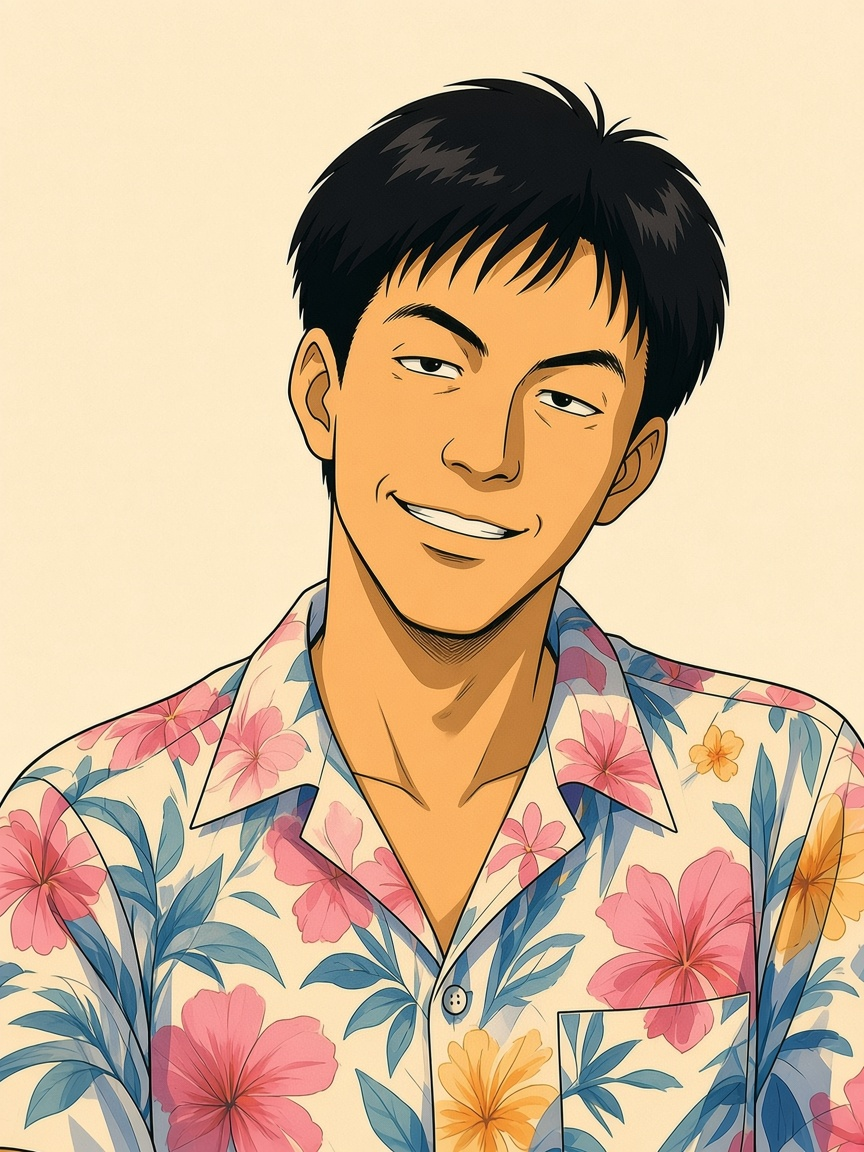
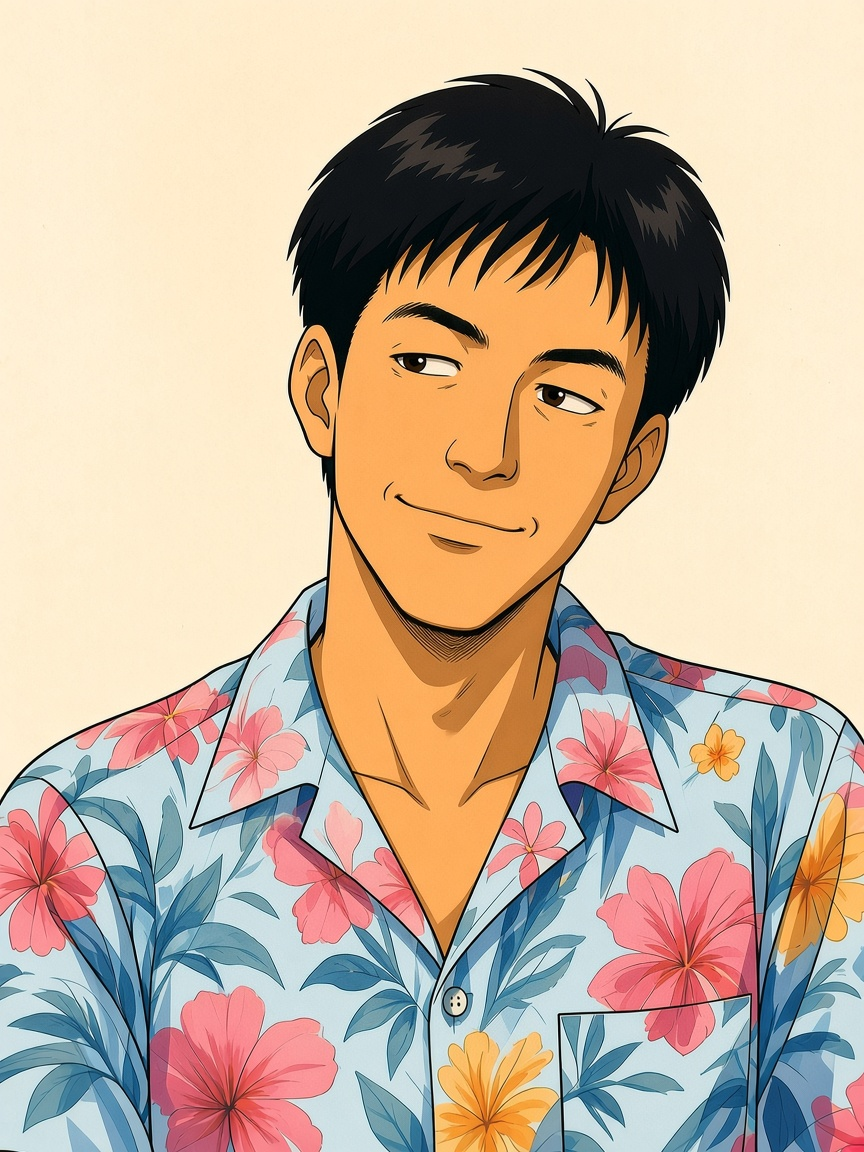
Soft: yip／liu smile↔default + liu frown Soft nit (#30)
Soft tip only. Soft≠PASS. SAVE/?v= still 19w. 唔 tip LIVE. yip def/smile + liu def/smile/frown Soft nits; yip frown lock.

diff --git a/assets/story/era_stars/MANIFEST.md b/assets/story/era_stars/MANIFEST.md
@@ -4,15 +4,15 @@
 > **Brief：** `content/ART_BRIEF_MVP_ERA_STARS_v1.md`  
 > **LOOKS：** `content/PLAN_CHAR_LOOKS_REF_v1.md` §C  
 > **Pipeline：** cursor **GenerateImage**（refs `hero_awi.jpg`＋`char_hero_bust_default.png`）→ Pillow cover-crop **864×1152** PNG  
-> **狀態：** **Soft tip 2026-11-05** — **luk leather v5b**＋**liu chow-vibe v10**＋**yip starlet-v3**＋**so jade-v4**＋**ngai kara-v5**（各 bust×3）。5 人 ×3 表情＝15 live bust。ngai kara-v2 已由 kara-v5 取代，唔再係 live。**Soft nits expr** 已換 so smile／luk smile／ngai×3（bak `bak_pre_soft_nits_expr_20261105/` 唔入本 PR）。**so energy Soft nit** 已換 default＋smile（frown 未動；bak 唔入本 PR）。**ngai age Soft nit** 已換×3（kara-v5 低馬尾＋navy zip 鎖；bak 唔入本 PR）。**silhouettes v2** 5／5 `*_silhouette_far.png` 已入 Soft（bak 唔入本 PR）。**sil Soft polish×3** 已換 yip／so／luk `*_silhouette_far.png`（liu sil 未動；ngai sil 當時未動；bak `bak_pre_silhouette_soft_polish_20261105/` 唔入本 PR）。**ngai zip sil Soft nit** 已換 `ngai_wingnaam_silhouette_far.png`（高領 zip／低馬尾／理領；bak `bak_pre_ngai_zip_sil_soft_nit_20261105/` 唔入本 PR）。挑眉 `raise_brow` 後排、唔動。Soft≠PASS；**唔 tip LIVE**；**1989–1992 HOLD**；`?v=` 仍 `19w`；SAVE `starVolunteer_map_v19w`
+> **狀態：** **Soft tip 2026-11-05** — **luk leather v5b**＋**liu chow-vibe v10**＋**yip starlet-v3**＋**so jade-v4**＋**ngai kara-v5**（各 bust×3）。5 人 ×3 表情＝15 live bust。ngai kara-v2 已由 kara-v5 取代，唔再係 live。**Soft nits expr** 已換 so smile／luk smile／ngai×3（bak `bak_pre_soft_nits_expr_20261105/` 唔入本 PR）。**so energy Soft nit** 已換 default＋smile（frown 未動；bak 唔入本 PR）。**ngai age Soft nit** 已換×3（kara-v5 低馬尾＋navy zip 鎖；bak 唔入本 PR）。**silhouettes v2** 5／5 `*_silhouette_far.png` 已入 Soft（bak 唔入本 PR）。**sil Soft polish×3** 已換 yip／so／luk `*_silhouette_far.png`（liu sil 未動；ngai sil 當時未動；bak `bak_pre_silhouette_soft_polish_20261105/` 唔入本 PR）。**ngai zip sil Soft nit** 已換 `ngai_wingnaam_silhouette_far.png`（高領 zip／低馬尾／理領；bak `bak_pre_ngai_zip_sil_soft_nit_20261105/` 唔入本 PR）。**yip／liu smile↔default Soft nit** 已換 yip／liu bust default＋smile（yip frown 未動；bak `bak_pre_yip_liu_smile_default_soft_nit_20261105/` 唔入本 PR）。**liu frown Soft nit** 已換 `liu_bingxing_bust_frown.png`（舊 `11582108`；bak `bak_pre_liu_frown_soft_nit_20261105/` 唔入本 PR）。挑眉 `raise_brow` 後排、唔動。Soft≠PASS；**唔 tip LIVE**；**1989–1992 HOLD**；`?v=` 仍 `19w`；SAVE `starVolunteer_map_v19w`
 
 ## Style-lock MD5（installed live）
 
 | file | MD5 |
 |---|---|
-| `liu_bingxing_bust_default.png` | `a3005d4508817a3acfd4c53a6d5d1518` |
-| `liu_bingxing_bust_frown.png` | `11582108cabd5d8b7cd53be13788b962` |
-| `liu_bingxing_bust_smile.png` | `9429f734da9f95a6ef172ffeb5fdda6d` |
+| `liu_bingxing_bust_default.png` | `f39379d5e40eea9830a0370cd3c8e71a` |
+| `liu_bingxing_bust_frown.png` | `82edc37f9001050bf69baa2c7ab993f5` |
+| `liu_bingxing_bust_smile.png` | `3b3c7fb4fad765d4800a4bbff75df89a` |
 | `luk_baakyin_bust_default.png` | `f0bc02d8db898c1d6799b8cabed342c7` |
 | `luk_baakyin_bust_frown.png` | `d379b32269a427c4695399c46c553b3a` |
 | `luk_baakyin_bust_smile.png` | `202a6200b9a7bf019d63d8e5c1dd440c` |
@@ -22,18 +22,18 @@
 | `so_jiyan_bust_default.png` | `2cc1a57050e1bf20d847d87938d1c1d0` |
 | `so_jiyan_bust_frown.png` | `f0c0347ebfb54d00993428404ab2e231` |
 | `so_jiyan_bust_smile.png` | `e57ab12a1329850c0b544a92fdd2ea46` |
-| `yip_manji_bust_default.png` | `247b7569c204d9ff3b9e091611fec5e9` |
+| `yip_manji_bust_default.png` | `b338280bdf931f14477ec89eaf0d8fa8` |
 | `yip_manji_bust_frown.png` | `9d7e2b8ea12a6cd8bfcf92972cba34d9` |
-| `yip_manji_bust_smile.png` | `d40c3dd713eef51dfee0615b59eebf1f` |
+| `yip_manji_bust_smile.png` | `6e7b1a2b373e7518617e6bd5b21e51b1` |
 
 ## Inventory
 
 | id | display | files | dims | notes |
 |---|---|---|---|---|
 | `luk_baakyin` | 陸柏言 | `*_bust_{default,smile,frown}.png` + `*_silhouette_far.png`（**sil Soft polish**） | 864×1152 | **leather v5b**＋**smile Soft nit 2026-11-05**（露齒酒窩）＋**frown Soft nit 2026-11-05**（深 V 皺眉＋下撇嘴；MD5 `d379b322`）。default `f0bc02d8`／smile `202a6200` 唔動。sil Soft polish（quiff↑；MD5 `194f29f2`）。bak `bak_pre_luk_leather_v5/`＋`bak_pre_soft_nits_expr_20261105/`＋`bak_pre_luk_frown_soft_nit_20261105/` 留盤，唔入本 PR |
-| `yip_manji` | 葉敏芝 | bust×3 + sil **Soft polish** | 864×1152 | **starlet-v3 2026-11-05**：露肩 dusty-rose；邱淑貞／張敏氣質（禁抄臉）；GenerateImage。sil Soft polish（露肩／bare-arm；MD5 `41ef7a1f`）。bak `bak_pre_yip_starlet_v3/` 留盤，唔入本 PR |
+| `yip_manji` | 葉敏芝 | bust×3 + sil **Soft polish** | 864×1152 | **starlet-v3 2026-11-05**：露肩 dusty-rose；邱淑貞／張敏氣質（禁抄臉）；GenerateImage。**smile↔default Soft nit 2026-11-05**（default 更中性閉唇 MD5 `b338280b`／smile 露齒 MD5 `6e7b1a2b`；frown `9d7e2b8e` 未動）。sil Soft polish（露肩／bare-arm；MD5 `41ef7a1f`）。bak `bak_pre_yip_starlet_v3/`＋`bak_pre_yip_liu_smile_default_soft_nit_20261105/` 留盤，唔入本 PR |
 | `so_jiyan` | 蘇芷茵 | bust×3 + `*_silhouette_far.png`（**sil Soft polish**） | 864×1152 | **jade-v4**＋**energy Soft nit 2026-11-05**（default＋smile 更有精神／眼閃；MD5 `2cc1a570`／`e57ab12a`）。frown `f0c0347e` 未動。sil Soft polish（肘外＋手前；MD5 `720e3473`）。bak `bak_pre_so_jade_v4/`＋`bak_pre_soft_nits_expr_20261105/`＋`bak_pre_so_energy_soft_nit_20261105/` 留盤，唔入本 PR |
-| `liu_bingxing` | 廖炳星 | bust×3 + sil **v2** | 864×1152 | **chow-vibe v10 2026-11-05**：花恤衫正面；周星馳氣質（禁抄臉）；GenerateImage。bak `bak_pre_liu_chow_v10/` 留盤，唔入本 PR |
+| `liu_bingxing` | 廖炳星 | bust×3 + sil **v2** | 864×1152 | **chow-vibe v10 2026-11-05**：花恤衫正面；周星馳氣質（禁抄臉）；GenerateImage。**smile↔default Soft nit 2026-11-05**（default 閉唇微翹 MD5 `f39379d5`／smile 露齒壞笑 MD5 `3b3c7fb4`）。**frown Soft nit 2026-11-05**（吃癟下撇＋夾眉；MD5 `82edc37f`；舊 `11582108`）。bak `bak_pre_liu_chow_v10/`＋`bak_pre_yip_liu_smile_default_soft_nit_20261105/`＋`bak_pre_liu_frown_soft_nit_20261105/` 留盤，唔入本 PR |
 | `ngai_wingnaam` | 魏詠男 | bust×3 + sil **zip Soft nit** | 864×1152 | **kara-v5**＋**age Soft nit 2026-11-05×3**（晚三十讀齡↑；低馬尾＋navy zip 統一；MD5 `09f79211`／`8f1abdaf`／`5df4f5fa`）。kara-v2 唔再係 live。sil zip Soft nit（高領 zip／低馬尾／理領；MD5 `899c7f7d`；v2 `31555755`）。bak `bak_pre_ngai_kara_v5/`＋`bak_pre_soft_nits_expr_20261105/`＋`bak_pre_ngai_age_soft_nit_20261105/`＋`bak_pre_ngai_zip_sil_soft_nit_20261105/` 留盤，唔入本 PR |
 
 **Bust 底：** cream studio ~`#F2EBD8`（跟 C1／阿偉）。  
@@ -58,8 +58,8 @@
 1. `luk_baakyin` smile Soft nit **2026-11-05 已換**（露齒＋酒窩；MD5 `202a6200`）；**frown Soft nit 2026-11-05 已換**（深 V 皺眉＋鼻樑壓＋下撇嘴；MD5 `d379b322`；對開 default smirk／smile 露齒）。Soft nits（唔擋）：怒氣線可再強；眉峰 V 可再銳  
 2. `so_jiyan` **energy Soft nit 2026-11-05 已換** default＋smile（MD5 `2cc1a570`／`e57ab12a`；閉唇淺笑＋眼神／smile 露齒眼閃；frown `f0c0347e` 未動）。Soft nits（唔擋）：default 嘴角仍偏親切微笑（可選再收、專推眼閃）；modern polish 線密度；default NEW RGB vs bak RGBA（尺寸／構圖 OK，記帳 only）  
 3. `ngai_wingnaam` **age Soft nit 2026-11-05 已換×3**（default／smile／frown MD5 `09f79211`／`8f1abdaf`／`5df4f5fa`；晚三十 cel 紋／顎線；kara-v5 低馬尾＋navy zip）。kara-v2 唔再係 live。Soft nits（唔擋）：smile 年齡線略重；default 可讀略過 38；髮絲 modern polish；zip vs brief sil（本輪未改 sil）  
-4. `yip_manji` starlet-v3：咬唇／眨眼能量仍可再推；default↔smile 差可再拉開  
-5. `liu_bingxing` chow-vibe v10：default↔smile 差可再拉開；frown 吃癟可再強  
+4. `yip_manji` **smile↔default Soft nit 2026-11-05 已換** default＋smile（MD5 `b338280b`／`6e7b1a2b`；default 更中性閉唇、smile 露齒更開；frown `9d7e2b8e` 未動）。starlet-v3 露肩 dusty-rose 鎖。Soft nits（唔擋）：default 仍可讀極淡嘴角（可選再收至完全中性／咬唇眨眼能量）  
+5. `liu_bingxing` **smile↔default Soft nit 2026-11-05 已換** default＋smile（MD5 `f39379d5`／`3b3c7fb4`；default 閉唇微翹、唔再露齒 smirk；smile 露齒壞笑）。**frown Soft nit 2026-11-05 已換**（MD5 `82edc37f`；吃癟下撇＋夾眉；對開 default 微翹／smile 露齒；舊 `11582108`）。chow-vibe v10 花恤衫鎖。yip frown `9d7e2b8e` 未動。Soft nits（唔擋）：下巴 hatch；吃癟弧略誇；線密度／modern polish  
 6. 整體略 modern polished anime／manhwa 線密度（同 core Soft nit），仍係平面 2D 家族——非先前半寫實漂移  
 7. Prompt 禁真藝名；LOOKS 靈感只作氣質／wardrobe  
 8. `char_hero_bust_raise_brow` 挑眉 Soft nit **未入本 pack**、後排、唔動  
@@ -72,7 +72,7 @@
 
 ## Gates
 
-Soft≠PASS｜唔 tip LIVE｜唔 wake iOS｜89–92 HOLD｜silhouettes v2 Soft tip（遠觀只限 Soft gate）｜sil Soft polish×3（yip／so／luk）｜ngai zip sil Soft nit（liu／yip／so／luk sil 未動）｜expr nits Soft tip｜so energy Soft nit（default＋smile；frown 未動）｜ngai age Soft nit×3｜raise_brow 後排｜`?v=` 仍 `19w`｜SAVE `starVolunteer_map_v19w`
+Soft≠PASS｜唔 tip LIVE｜唔 wake iOS｜89–92 HOLD｜silhouettes v2 Soft tip（遠觀只限 Soft gate）｜sil Soft polish×3（yip／so／luk）｜ngai zip sil Soft nit（liu／yip／so／luk sil 未動）｜expr nits Soft tip｜so energy Soft nit（default＋smile；frown 未動）｜ngai age Soft nit×3｜yip／liu smile↔default Soft nit（default＋smile；yip frown 未動）｜liu frown Soft nit｜raise_brow 後排｜`?v=` 仍 `19w`｜SAVE `starVolunteer_map_v19w`
 
 ## Pack
 
@@ -101,6 +101,10 @@ Soft≠PASS｜唔 tip LIVE｜唔 wake iOS｜89–92 HOLD｜silhouettes v2 Soft t
 `/workspace/star-volunteer-web-era-sil-soft-polish.tar.gz`（只換 live yip／so／luk `*_silhouette_far.png`；`bak_pre_silhouette_soft_polish_20261105/`、pngs／preview／bust_refs／QA md／composites 唔入本 PR）
 
 `/workspace/star-volunteer-web-ngai-zip-sil-soft-nit.tar.gz`（只換 live `ngai_wingnaam_silhouette_far.png`；`bak_pre_ngai_zip_sil_soft_nit_20261105/`、preview／compare／bust_refs／QA md 唔入本 PR）
+
+`/workspace/star-volunteer-web-yip-liu-smile-default-soft-nit.tar.gz`（只換 live `yip_manji`／`liu_bingxing` bust default＋smile；`bak_pre_yip_liu_smile_default_soft_nit_20261105/`、QA composite／QA md 唔入本 PR）
+
+`/workspace/star-volunteer-web-liu-frown-soft-nit.tar.gz`（只換 live `liu_bingxing_bust_frown.png`；`bak_pre_liu_frown_soft_nit_20261105/`、QA composite／QA md 唔入本 PR）
 
 ## Related
 
@@ -151,3 +155,21 @@ Soft≠PASS｜唔 tip LIVE｜唔 wake iOS｜89–92 HOLD｜silhouettes v2 Soft t
 - QC：統籌 Style PASS with nits。Soft≠PASS｜唔 tip LIVE｜唔抬 ?v=｜89–92 HOLD
 - 遠觀 wire 仍係 `eraSilhouetteFarSrc` → `assets/story/era_stars/{id}_silhouette_far.png?v=19w`（本 PR 唔改碼）
 - Pack：`/workspace/star-volunteer-web-ngai-zip-sil-soft-nit.tar.gz` MD5 `35e00f8052a144e2283b43e2d584db44`
+
+## yip／liu smile↔default Soft nit 2026-11-05 (Asia/Hong_Kong)
+- 只換 live：`yip_manji_bust_default.png` MD5 `b338280bdf931f14477ec89eaf0d8fa8`；`yip_manji_bust_smile.png` MD5 `6e7b1a2b373e7518617e6bd5b21e51b1`；`liu_bingxing_bust_default.png` MD5 `f39379d5e40eea9830a0370cd3c8e71a`；`liu_bingxing_bust_smile.png` MD5 `3b3c7fb4fad765d4800a4bbff75df89a`（864×1152 RGB）
+- 唔動：yip frown `9d7e2b8ea12a6cd8bfcf92972cba34d9`。liu frown 見下一節（本段 pack 未含）。唔改 sil／ngai／so／luk bust／`index.html`／gigs
+- 對開舊：yip default `247b7569c204d9ff3b9e091611fec5e9`／smile `d40c3dd713eef51dfee0615b59eebf1f`；liu default `a3005d4508817a3acfd4c53a6d5d1518`／smile `9429f734da9f95a6ef172ffeb5fdda6d`。bak `bak_pre_yip_liu_smile_default_soft_nit_20261105/` 留盤、唔入本 PR
+- 目標：yip default 更中性閉唇、smile 露齒更開；liu default 閉唇微翹（唔再露齒 smirk）、smile 露齒壞笑。wardrobe／cel／identity 鎖
+- Soft nits（唔擋 Soft tip）：yip default 仍極淡嘴角；modern polish 線密度；sil light-edge 後排
+- QC：統籌 Style PASS with nits。Soft≠PASS｜唔 tip LIVE｜唔抬 ?v=｜89–92 HOLD
+- Pack：`/workspace/star-volunteer-web-yip-liu-smile-default-soft-nit.tar.gz` MD5 `f4b3107521e91d1cf4329ed7e13f58b9`
+
+## liu frown Soft nit 2026-11-05 (Asia/Hong_Kong)
+- 只換 live：`liu_bingxing_bust_frown.png` MD5 `82edc37f9001050bf69baa2c7ab993f5`（864×1152 RGB）。併入同一 Soft tip（yip／liu smile↔default），唔另開 PR
+- 唔動：default `f39379d5e40eea9830a0370cd3c8e71a`；smile `3b3c7fb4fad765d4800a4bbff75df89a`；yip frown `9d7e2b8ea12a6cd8bfcf92972cba34d9`；yip default `b338280bdf931f14477ec89eaf0d8fa8`；yip smile `6e7b1a2b373e7518617e6bd5b21e51b1`。唔改 sil／ngai／so／luk bust／`index.html`／gigs
+- 對開舊 frown：`11582108cabd5d8b7cd53be13788b962`。bak `bak_pre_liu_frown_soft_nit_20261105/` 留盤、唔入本 PR
+- 目標：吃癟下撇＋夾眉，對開 default 閉唇微翹／smile 露齒。chow-vibe v10 花恤衫／cel／identity 鎖
+- Soft nits（唔擋 Soft tip）：下巴 hatch；吃癟弧略誇；線密度／modern polish。連同既有：yip default 極淡嘴角；modern polish；sil light-edge 後排
+- QC：統籌 Style PASS with nits。Soft≠PASS｜唔 tip LIVE｜唔抬 ?v=｜89–92 HOLD
+- Pack：`/workspace/star-volunteer-web-liu-frown-soft-nit.tar.gz` MD5 `95ac38ba3579afe88c63a6a1d186deb7`

diff --git a/assets/STYLE_CANON.md b/assets/STYLE_CANON.md
@@ -61,6 +61,10 @@
 
 - 2026-11-05 ngai zip sil Soft nit：只換 `ngai_wingnaam_silhouette_far.png` MD5 `899c7f7d`（對 v2 `31555755`：高領 zip／低馬尾／理領）；liu／yip／so／luk sil 未動；864×1152 RGBA 近黑 `(18,18,20)`、無五官；bak `era_stars/bak_pre_ngai_zip_sil_soft_nit_20261105/` 留盤、唔入本 PR；遠觀 wire 仍 `?v=19w`、唔改 `index.html`；Soft nits（唔擋）：遠距可讀成連帽；理領空隙弱；無光邊；Soft≠PASS；唔 tip LIVE；89–92 HOLD。
 
+- 2026-11-05 yip／liu smile↔default Soft nit：`yip_manji`＋`liu_bingxing` bust_{default,smile}；GenerateImage；bak `era_stars/bak_pre_yip_liu_smile_default_soft_nit_20261105/` 留盤、唔入本 PR；pack `/workspace/star-volunteer-web-yip-liu-smile-default-soft-nit.tar.gz`；yip frown 未動；Soft≠PASS；唔 tip LIVE；`?v=` 仍 `19w`；89–92 HOLD。
+
+- 2026-11-05 liu frown Soft nit：`liu_bingxing_bust_frown` 吃癟下撇對開 default／smile（chow-vibe v10 wardrobe／cel-shade lock；default `f39379d5`／smile `3b3c7fb4` 未動；yip frown `9d7e2b8e` 未動）；GenerateImage；bak `era_stars/bak_pre_liu_frown_soft_nit_20261105/` 留盤、唔入本 PR；pack `/workspace/star-volunteer-web-liu-frown-soft-nit.tar.gz`；併入同一 Soft tip；Soft≠PASS；唔 tip LIVE；`?v=` 仍 `19w`；89–92 HOLD。
+
 ## raise_brow Soft nit（2026-11-05 Asia/Hong_Kong）
 
 - 已換：`char_hero_bust_raise_brow.png` MD5 `59dab337`；`char_cheung_bust_raise_brow.png` MD5 `8a8d01a9`（c1／story／dialog／npc 四路同 MD5）
@@ -116,3 +120,23 @@
 - Soft nits（唔擋 Soft tip）：遠距可讀成連帽；理領空隙弱；無光邊
 - QC：統籌 Style PASS with nits。Soft≠PASS；唔 tip LIVE；`?v=` 仍 `19w`；SAVE `starVolunteer_map_v19w`；89–92 HOLD
 - Pack：`/workspace/star-volunteer-web-ngai-zip-sil-soft-nit.tar.gz` MD5 `35e00f8052a144e2283b43e2d584db44`
+
+## yip／liu smile↔default Soft nit（2026-11-05 Asia/Hong_Kong）
+
+- 只換：`story/era_stars/yip_manji_bust_default.png` MD5 `b338280b`；`yip_manji_bust_smile.png` MD5 `6e7b1a2b`；`liu_bingxing_bust_default.png` MD5 `f39379d5`；`liu_bingxing_bust_smile.png` MD5 `3b3c7fb4`
+- 唔動：yip frown `9d7e2b8e`。liu frown 見下一節。唔改 sil／ngai／so／luk bust／`index.html`／gigs。starlet-v3 露肩 dusty-rose 與 chow-vibe v10 花恤衫 wardrobe／cel-shade lock。Pipeline：GenerateImage → 864×1152 RGB
+- 對開舊：yip default `247b7569`／smile `d40c3dd7`；liu default `a3005d45`／smile `9429f734`。bak `era_stars/bak_pre_yip_liu_smile_default_soft_nit_20261105/` 留盤、唔入本 PR
+- 目標：default 更中性閉唇；smile 露齒更明顯（liu default 唔再露齒 smirk）
+- Soft nits（唔擋 Soft tip）：yip default 仍極淡嘴角；modern polish 線密度；sil light-edge 後排
+- Soft≠PASS；唔 tip LIVE；`?v=` 仍 `19w`；SAVE `starVolunteer_map_v19w`；89–92 HOLD
+- Pack：`/workspace/star-volunteer-web-yip-liu-smile-default-soft-nit.tar.gz` MD5 `f4b3107521e91d1cf4329ed7e13f58b9`
+
+## liu frown Soft nit（2026-11-05 Asia/Hong_Kong）
+
+- 只換：`story/era_stars/liu_bingxing_bust_frown.png` MD5 `82edc37f`。併入 yip／liu smile↔default 同一 Soft tip，唔另開
+- 唔動：default `f39379d5`；smile `3b3c7fb4`；yip default `b338280b`；yip smile `6e7b1a2b`；yip frown `9d7e2b8e`。唔改 sil／ngai／so／luk bust／`index.html`／gigs。chow-vibe v10 花恤衫／cel-shade lock。Pipeline：GenerateImage → 864×1152 RGB
+- 對開舊 frown `11582108`。bak `era_stars/bak_pre_liu_frown_soft_nit_20261105/` 留盤、唔入本 PR
+- 目標：吃癟下撇＋夾眉，對開 default 閉唇微翹／smile 露齒
+- Soft nits（唔擋 Soft tip）：下巴 hatch；吃癟弧略誇；線密度／modern polish。連同既有：yip default 極淡嘴角；modern polish；sil light-edge 後排
+- Soft≠PASS；唔 tip LIVE；`?v=` 仍 `19w`；SAVE `starVolunteer_map_v19w`；89–92 HOLD
+- Pack：`/workspace/star-volunteer-web-liu-frown-soft-nit.tar.gz` MD5 `95ac38ba3579afe88c63a6a1d186deb7`
